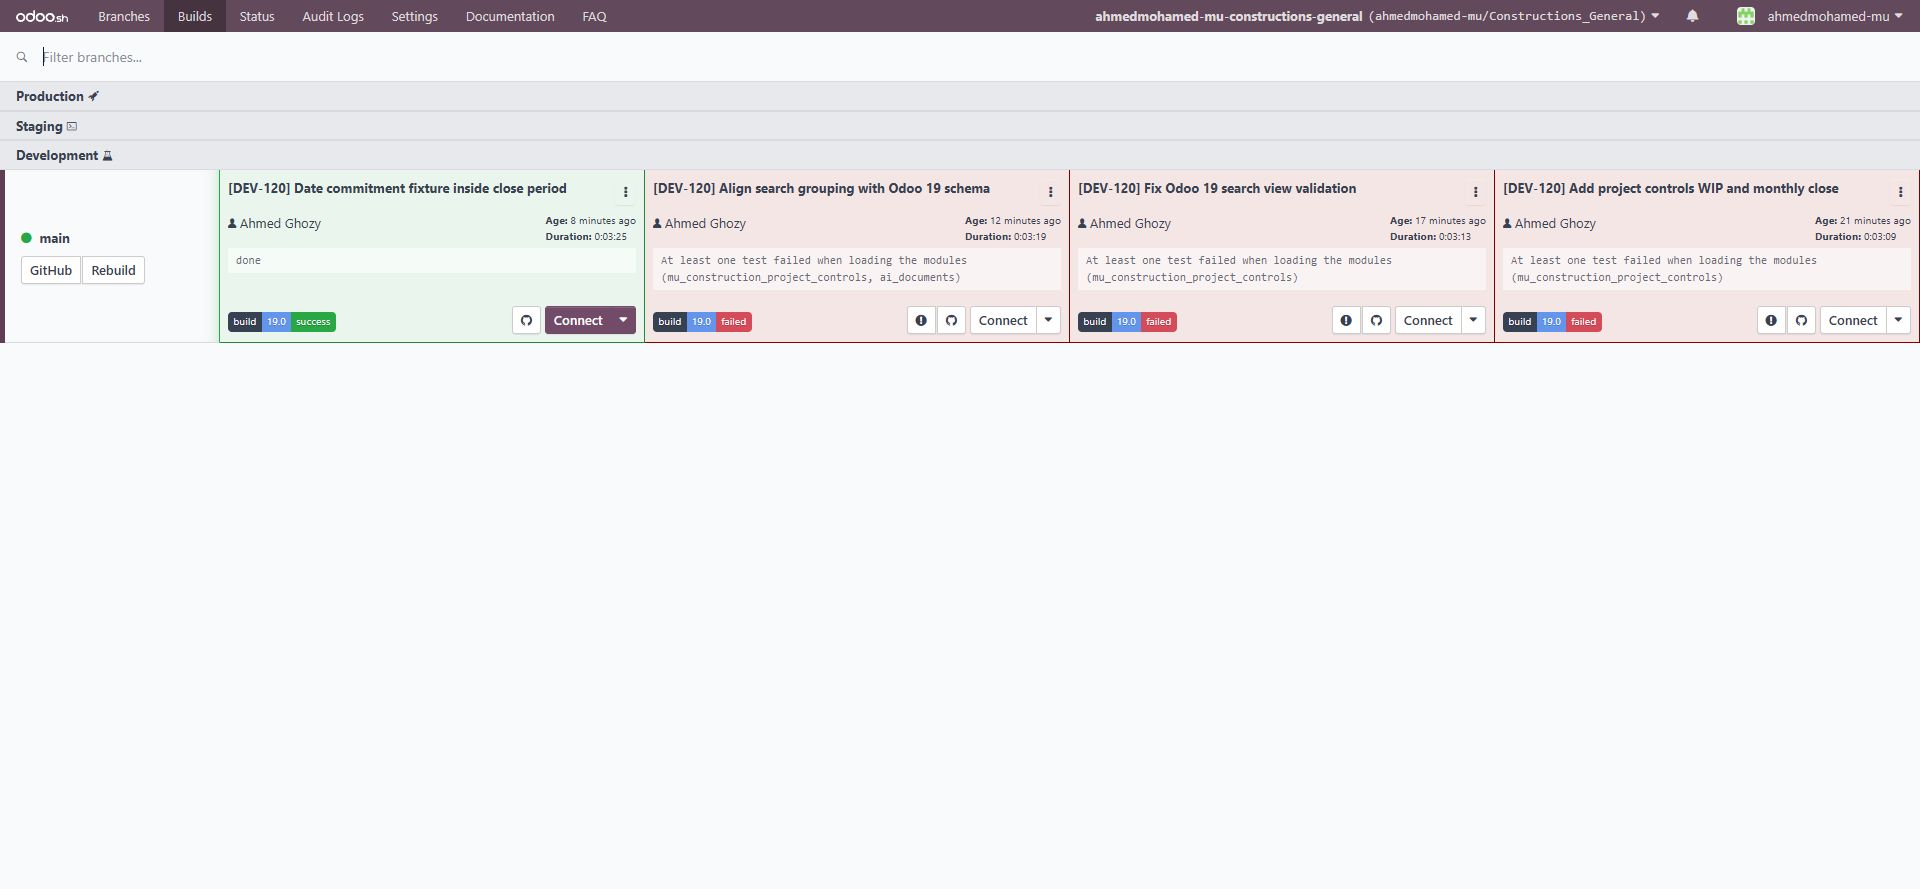
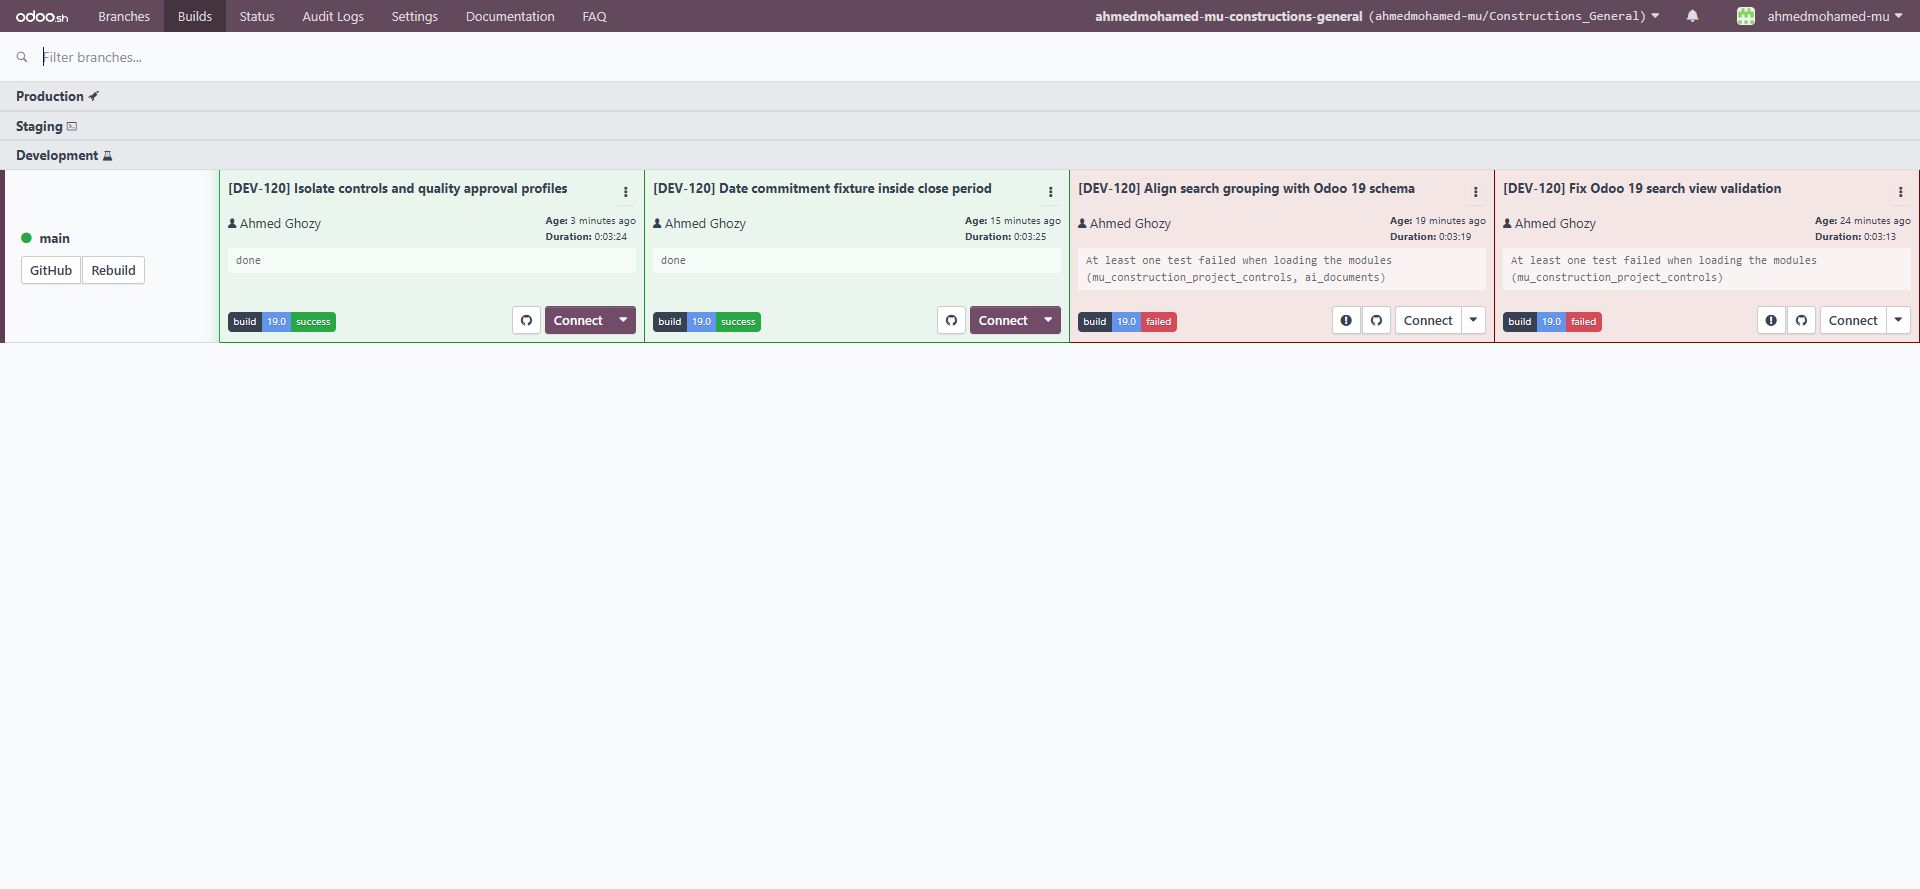
[DEV-120] Refresh final regression evidence

diff --git a/outputs/DEV-120_Project_Controls_Accounting_Acceptance_AR.md b/outputs/DEV-120_Project_Controls_Accounting_Acceptance_AR.md
@@ -2,7 +2,7 @@
 
 ## النتيجة
 
-تم تنفيذ واختبار مرحلة DEV-120 على فرع `main` المصنف Development في Odoo.sh. البناء النهائي رقم `37194733` نجح على commit `4ef912341e1df5d9f4ad4fd3b2bee6449a85d42f` بتاريخ 2026-08-30.
+تم تنفيذ واختبار مرحلة DEV-120 على فرع `main` المصنف Development في Odoo.sh. البناء النهائي رقم `37194962` نجح على commit `efde21163e40cd6e52182b0739fc77932c481d68` بتاريخ 2026-08-30.
 
 ## النطاق المنفذ
 
@@ -29,15 +29,15 @@
 
 ## الاختبارات
 
-- 6 اختبارات خاصة بالموديول تغطي EAC/variance، EVM، WIP cost-to-cost، contract asset، استبعاد PO draft، إدراج PO confirmed داخل الفترة، قفل الإقفال، عدم إنشاء قيود، وضوابط accrual/cash-flow.
-- نتيجة البناء الكلية: `0 failed, 0 error(s) of 52 tests`.
-- زمن تحميل الموديول: `1.22s` متضمنًا `0.75s` اختبارات، بعدد `483 queries (+523 test)`.
+- 7 اختبارات خاصة بالموديول تغطي EAC/variance، EVM، WIP cost-to-cost، contract asset، استبعاد PO draft، إدراج PO confirmed داخل الفترة، قفل الإقفال، عدم إنشاء قيود، ضوابط accrual/cash-flow، واستقلال Profile الإقفال عن Profile موافقات QA/QC.
+- نتيجة البناء الكلية: `0 failed, 0 error(s) of 53 tests`.
+- زمن تحميل الموديول: `1.28s` متضمنًا `0.76s` اختبارات، بعدد `494 queries (+549 test)`.
 
 ## أدلة القبول
 
-- `outputs/DEV-120_evidence/01-build-success.jpg` — Odoo.sh Build `37194733` بحالة Success.
+- `outputs/DEV-120_evidence/01-build-success.jpg` — Odoo.sh Build `37194962` بحالة Success.
 - `outputs/DEV-120_evidence/02-test-log.jpg` — سطر تحميل الموديول ونتائج الاختبارات.
-- الكود النهائي: commit `4ef912341e1df5d9f4ad4fd3b2bee6449a85d42f`.
+- الكود النهائي: commit `efde21163e40cd6e52182b0739fc77932c481d68`.
 
 ## قرار البوابة
 
